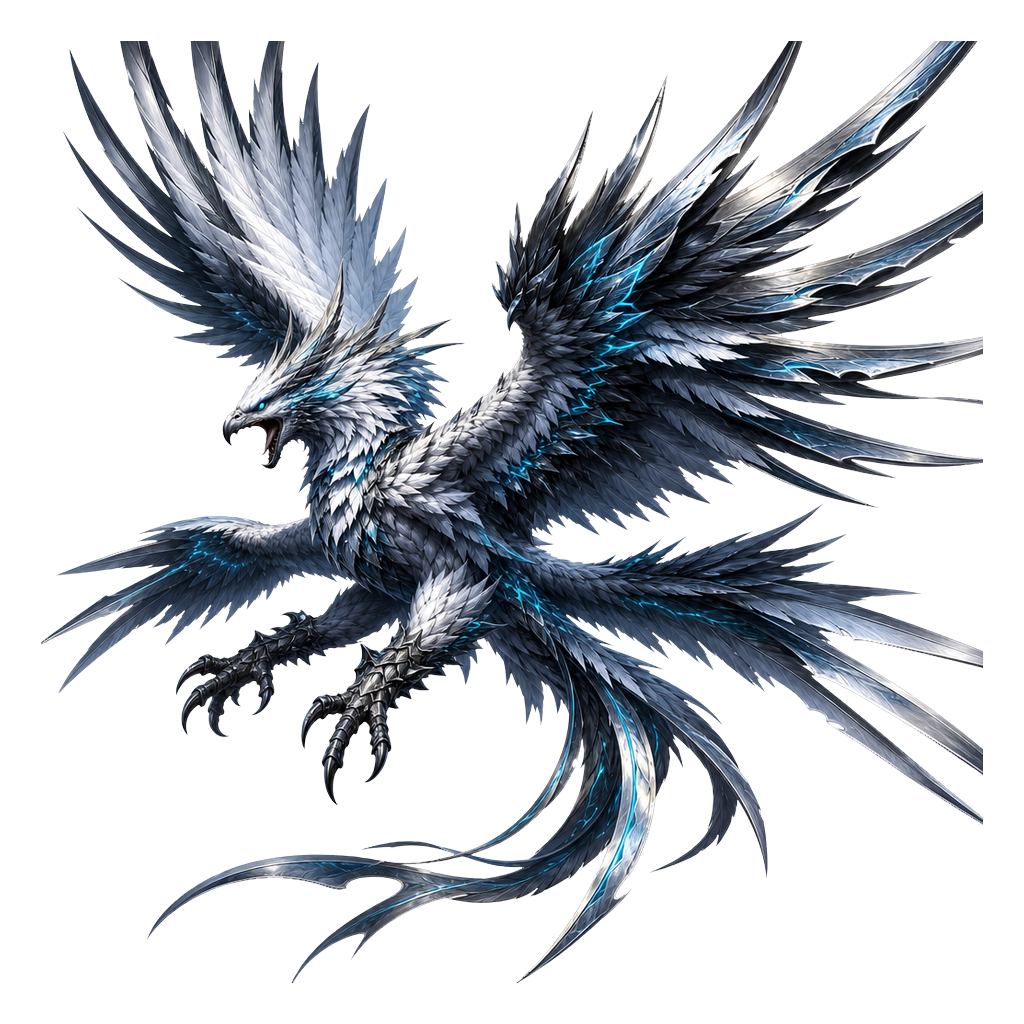
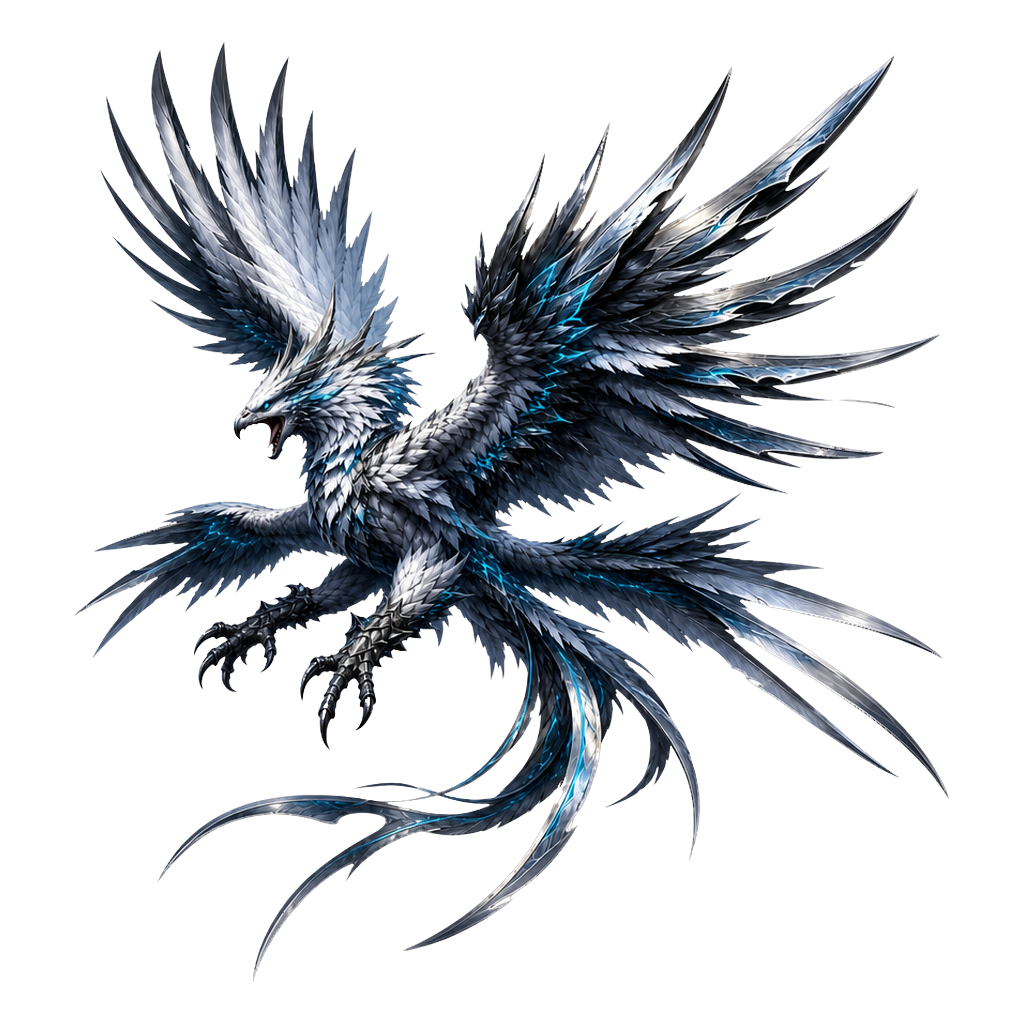
backlog x4: 147 approve+crop; 153 approve + new fill-to-frame crop 86%->92% (old B deleted per order); 171 regen with hard tail/body single-continuous-length clause (from 170); 269 delete rejected B; creature.html: cache-buster (?t=) on all image probes/srcs — closes last browser-cache staleness lay

diff --git a/creature.html b/creature.html
@@ -154,6 +154,7 @@
 <script>
 const CREATURES_URL = "codex/creatures.csv";
 const IMG_BASE = "./";
+    const BUST = '?t=' + Date.now();
 const SLOT_NAMES = {"1":"Main Hand","2":"Off Hand","3":"1st Accessory","4":"2nd Accessory"};
 
 function parseCSV(text) {
@@ -256,7 +257,7 @@ async function load() {
     // and swap in comparison tabs if any crop file actually exists.
     // (File-probe based, same as codex grid — does NOT rely on BG_Status.)
     document.getElementById('creature-img-wrap').innerHTML = c.Image_Path
-      ? '<img src="' + IMG_BASE + escapeHtml(c.Image_Path) + '" alt="' + escapeHtml(c.Name) + '">'
+      ? '<img src="' + IMG_BASE + escapeHtml(c.Image_Path) + BUST + '" alt="' + escapeHtml(c.Name) + '">'
       : '<div class="no-img">NO IMAGE YET</div>';
 
     if (c.Image_Path) (async function() {
@@ -270,14 +271,14 @@ async function load() {
       const present = [];
       for (const s of slotDefs) {
         const path = origPath.replace('codex/images/', 'codex/images/' + s.folder);
-        try { if ((await fetch(IMG_BASE + path, { method:'HEAD' })).ok) present.push(Object.assign({}, s, { path })); } catch {}
+        try { if ((await fetch(IMG_BASE + path + BUST, { method:'HEAD' })).ok) present.push(Object.assign({}, s, { path })); } catch {}
       }
       if (present.length === 0) return;
       let tabs = '<button class="compare-tab active" onclick="switchTab(this,\'orig\')">Option A</button>';
-      let imgs = '<img id="compare-orig" src="' + IMG_BASE + escapeHtml(origPath) + '" alt="' + escapeHtml(c.Name) + ' original" style="display:block">';
+      let imgs = '<img id="compare-orig" src="' + IMG_BASE + escapeHtml(origPath) + BUST + '" alt="' + escapeHtml(c.Name) + ' original" style="display:block">';
       present.forEach(function(s) {
         tabs += '<button class="compare-tab" onclick="switchTab(this,\'' + s.key + '\')">' + s.label + '</button>';
-        imgs += '<img id="' + s.id + '" src="' + IMG_BASE + escapeHtml(s.path) + '" alt="' + escapeHtml(c.Name) + '" style="display:none">';
+        imgs += '<img id="' + s.id + '" src="' + IMG_BASE + escapeHtml(s.path) + BUST + '" alt="' + escapeHtml(c.Name) + '" style="display:none">';
       });
       document.getElementById('creature-img-wrap').innerHTML = '<div class="compare-tabs">' + tabs + '</div>' + imgs;
     })();
@@ -285,14 +286,14 @@ async function load() {
     // Mutant variant toggle (cosmetic color-pallete rework)
     if (c.Image_Path) (async function() {
       const mpath = 'codex/images/mutants/' + c.ID + '.webp';
-      try { if (!(await fetch(IMG_BASE + mpath, { method:'HEAD' })).ok) return; } catch { return; }
+      try { if (!(await fetch(IMG_BASE + mpath + BUST, { method:'HEAD' })).ok) return; } catch { return; }
       const wrap = document.getElementById('creature-img-wrap');
       wrap.insertAdjacentHTML('afterend', '<button id="mutant-toggle" class="mutant-toggle">☣ VIEW MUTANT</button>');
       let normalHTML = null;
       document.getElementById('mutant-toggle').addEventListener('click', function() {
         if (normalHTML === null) {
           normalHTML = wrap.innerHTML;
-          wrap.innerHTML = '<img src="' + IMG_BASE + mpath + '" alt="' + escapeHtml(c.Name) + ' mutant">';
+          wrap.innerHTML = '<img src="' + IMG_BASE + mpath + BUST + '" alt="' + escapeHtml(c.Name) + ' mutant">';
           this.textContent = '☣ VIEW NORMAL'; this.classList.add('active');
         } else {
           wrap.innerHTML = normalHTML; normalHTML = null;
@@ -492,6 +493,7 @@ load();
     // B = Sylph crop (cropped/DFMC-XXX.png)
     // C = isnet crop (cropped_c/DFMC-XXX.png)
     const IMG_BASE = './codex/images/';
+    const BUST = '?t=' + Date.now();
     const OPTION_DEFS = [
       { label: 'A', folder: '',           key: 'A' },
       { label: 'B', folder: 'cropped/',   key: 'B' },
@@ -504,7 +506,7 @@ load();
     async function probeOptions() {
       availableOptions = [];
       for (const def of OPTION_DEFS) {
-        const url = IMG_BASE + def.folder + id + '.png';
+        const url = IMG_BASE + def.folder + id + '.png' + BUST;
         try {
           const resp = await fetch(url, { method: 'HEAD' });
           if (resp.ok) {